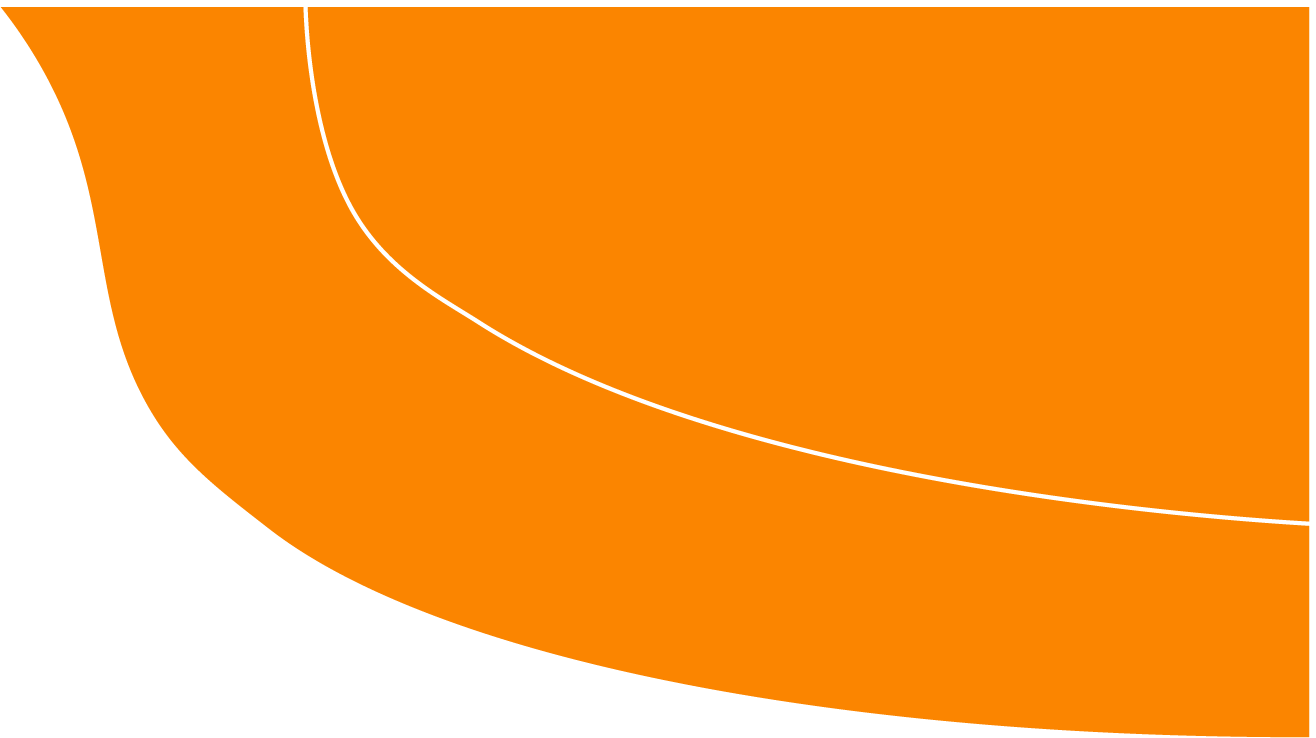
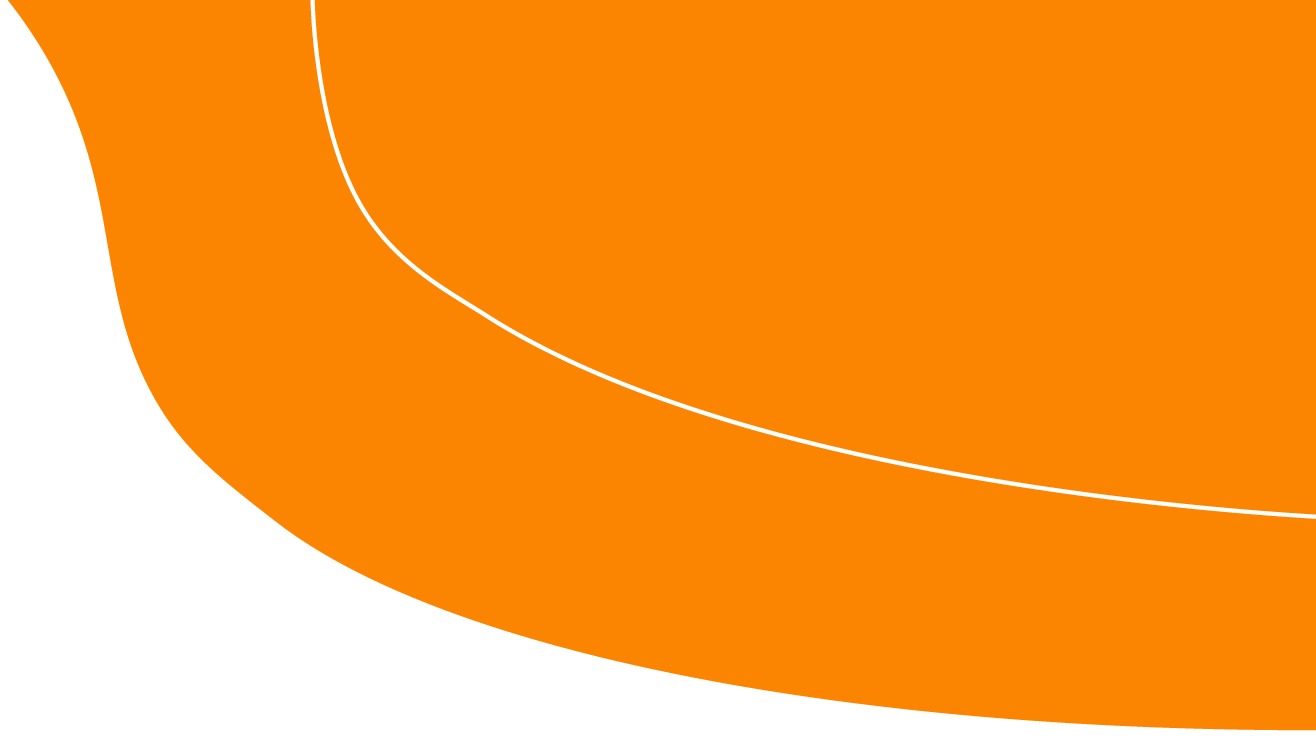
Face animations

diff --git a/src/components/Face.vue b/src/components/Face.vue
@@ -141,12 +141,11 @@
         <path class="cls-11" d="M333.44,402.27s40.04,27.37,73.18,23.15c33.15-4.21,85.23,25.57,86.81,37.41"/>
         <path class="cls-11" d="M174.07,387.41s-40.94,30.98-71.54,27.45S8.88,448.33,1.46,480.91"/>
         <path class="cls-8" d="M179.02,314.45c-3.56,14.83-7.67,39.28-3.99,68.84,2.93,23.51,10.28,82.61,55.52,105.23,4.1,2.05,36.75,17.81,63.82,3.69,39.21-20.45,39.61-89.44,39.78-119.7,.08-12.98-.88-23.74-1.76-31.14"/>
-        <path class="cls-13" d="M195.85,371.5c21.49,27.82,65.43,67.66,95.38,49.71,16.98-10.17,23.79-38.88,34.42-60.6-37.44,38.22-90.04,42.43-130.15,10.42,.12,.15,.24,.31,.36,.47Z"/>
+        <path id="neckShadow" :style="`transform: rotate(${-rotation/5}deg) translateX(${-translateXFace/5}px) translateY(${translateYFace/6}px)`" class="cls-13" d="M195.85,371.5c21.49,27.82,65.43,67.66,95.38,49.71,16.98-10.17,23.79-38.88,34.42-60.6-37.44,38.22-90.04,42.43-130.15,10.42,.12,.15,.24,.31,.36,.47Z"/>
         <path class="cls-6" d="M242.94,439.73s15.29,20.57,28.74,6.33"/>
       </g>
     </g>
-  <g id="Container">
-    
+  <g id="Container" :style="`transform: rotate(${rotation}deg) translateX(${translateXFace}px) translateY(${translateYFace}px)`">
     <g id="Face">
       <g>
         <path class="cls-8" d="M267.18,408.71c-77.67,6.21-112.9-105.58-113.07-108.14-.06-.87-.08-1.31-.08-1.31-1.05-18.99,4.22,27.96-18.46-37.98-22.68-65.93,15.82-32.18,15.3-25.32-.53,6.86,3.16-45.89,3.16-45.89,0,0,14.24-17.41,20.57-51.16,6.33-33.76,39.56-65.93,59.6-66.46,20.04-.53,72.79-6.33,103.38,40.09,13.21,20.04,11.92,29.14,11.92,29.14,.7,17.37,3.61,21.87,6.28,22.55,2.3,.59,9.49-.04,7.12,0,2.64-1.85,5.27-3.69,7.91-5.54,0,4.66,0,9.32,0,13.98v51.16c1.36-5.56,4.93-9.41,8.67-9.61,4.56-.25,7.81,4.97,8.73,6.45,1.57,2.52,4.39,8.38,.53,26.9-1.34,6.43-3.67,15.22-7.91,25.32-2.51,5.96-2.74,9.58-5.8,13.19-4.24,4.99-9.82,7.13-13.59,8.13-.35,6.15-.93,12.7-1.8,19.59-.85,6.72-1.91,13.05-3.07,18.96,0,0-2.41,9.04-8.7,19.78-4.62,7.88-33.57,52.41-80.7,56.18Z"/>
@@ -160,6 +159,18 @@
         <path class="cls-3" d="M377.07,235.32c1.57,3.5,2.89,7.23,3.45,11.04"/>
         <path class="cls-4" d="M361.46,293.2c3.12-24.6,6.25-49.2,9.37-73.8"/>
         <path class="cls-9" d="M282.09,284.98c1.08,4.82,.08,11.82-5.87,12.82-4.96,1-8.93,4-13.9,6-6.95-3-13.9-4-19.85-9-2.98-2-.99-8-.99-12,1.99-12,0-23,.99-34.85"/>
+      </g>
+    </g>
+    <!-- <path id="Mouth" class="cls-9" d="M226.36,336.31s33.13,23.47,73.4,0"/> -->
+    <path id="Mouth" class="cls-9" :d="`M226.36,${mouthY}s33.13,${mouthShape},73.4,0`"/>    
+    <g id="right_eyebrow" data-name="right eyebrow" :style="`transform: translateY(${translateYRightEyebrow}px)`">
+      <g>
+        <path class="cls-13" d="M355.72,189.91c-1-.68-1.99-1.33-2.93-2.09-.88-.71-1.55-1.52-2.25-2.4-.34-.42-.68-.84-1.02-1.26-.45-.55-.79-.56,0-.28-.7-.25-1.34-.63-1.88-1.09h-66.48s0,46.31,0,46.31h75.96s0-36.13,0-36.13c-.85-.82-1.42-1.89-1.4-3.06Z"/>
+        <path class="cls-1" d="M357.37,192.38s-5.27-21.1-21.63-22.15c-16.35-1.05-54.33,11.08-54.33,11.08l3.69,11.08s55.38-21.1,72.26,0Z"/>
+      </g>
+    </g>
+    <g id="hair">
+      <g>
         <path class="cls-1" d="M373.52,170.81c-3.37,1.39-6.74,2.78-10.1,4.17-8.65,.46-20.64-.4-29.46-8.12-20.7-18.13-1.04-54.08-22.15-72.79-10.88-9.65-28.65-11.17-45.1-12.66-8.52-.77-16.26-.6-22.95,0-5.79,1.38-12.68,3.74-19.78,7.91-22.56,13.24-31.25,35.28-34.02,43.52-1.07,7.3-3.12,16.31-7.12,26.11-6.94,16.99-16.7,28.9-23.74,36.13l-2.11,64.88s-22.76-29.54-23.51-52.22c-.75-22.68-31.87-43.25-31.87-43.25,0,0,2.64-27.96,5.8-29.01,3.16-1.05,11.08-11.08,12.13-26.37,1.05-15.3,38.51-14.24,48-53.27,9.49-39.03,70.15-24.26,68.57-14.24-1.58,10.02,26.9-48.53,81.23-32.18,54.33,16.35,35.34,64.88,58.55,70.15,23.21,5.27,32.18-15.82,32.18-15.82,0,0,22.68,10.55,25.85,24.26,2.49,10.8,5.64,37.65-9.9,51.13-8.1,7.03-17.01,7.42-17.01,7.42-4.43,.71-7.93,.37-8.22,1.53-.52,2.06,10.15,4.29,13.78,8.87,5.01,6.31,1.72,23.45-36.68,71.89l-2.37-58.02Z"/>
         <path class="cls-11" d="M369.45,165.81c-3.37,1.39-6.74,2.78-10.1,4.17-8.65,.46-20.64-.4-29.46-8.12-20.7-18.13-1.04-54.08-22.15-72.79-10.88-9.65-28.65-11.17-45.1-12.66-8.52-.77-16.26-.6-22.95,0-5.79,1.38-12.68,3.74-19.78,7.91-22.56,13.24-31.25,35.28-34.02,43.52-1.07,7.3-3.12,16.31-7.12,26.11-6.94,16.99-16.7,28.9-23.74,36.13l-2.11,64.88s-22.76-29.54-23.51-52.22c-.75-22.68-31.87-43.25-31.87-43.25,0,0,2.64-27.96,5.8-29.01,3.16-1.05,11.08-11.08,12.13-26.37,1.05-15.3,38.51-14.24,48-53.27,9.49-39.03,70.15-24.26,68.57-14.24-1.58,10.02,26.9-48.53,81.23-32.18,54.33,16.35,35.34,64.88,58.55,70.15,23.21,5.27,32.18-15.82,32.18-15.82,0,0,22.68,10.55,25.85,24.26,2.49,10.8,5.64,37.65-9.9,51.13-8.1,7.03-17.01,7.42-17.01,7.42-4.43,.71-7.93,.37-8.22,1.53-.52,2.06,10.15,4.29,13.78,8.87,5.01,6.31,1.72,23.45-36.68,71.89l-2.37-58.02Z"/>
         <path class="cls-7" d="M257.63,56.72s71.75-52.28,93.98,34.81,72.23,15.03,61.83,10.29"/>
@@ -172,14 +183,7 @@
         <path class="cls-7" d="M361.46,82.83s22.59,49.85,43.16,11.08"/>
       </g>
     </g>
-    <path id="Mouth" class="cls-9" d="M226.36,336.31s33.13,23.47,73.4,0"/>
-    <g id="right_eyebrow" data-name="right eyebrow">
-      <g>
-        <path class="cls-13" d="M355.72,189.91c-1-.68-1.99-1.33-2.93-2.09-.88-.71-1.55-1.52-2.25-2.4-.34-.42-.68-.84-1.02-1.26-.45-.55-.79-.56,0-.28-.7-.25-1.34-.63-1.88-1.09h-66.48s0,46.31,0,46.31h75.96s0-36.13,0-36.13c-.85-.82-1.42-1.89-1.4-3.06Z"/>
-        <path class="cls-1" d="M357.37,192.38s-5.27-21.1-21.63-22.15c-16.35-1.05-54.33,11.08-54.33,11.08l3.69,11.08s55.38-21.1,72.26,0Z"/>
-      </g>
-    </g>
-    <g id="left_eyebrow" data-name="left eyebrow">
+    <g id="left_eyebrow" data-name="left eyebrow" :style="`transform: translateY(${translateYLeftEyebrow}px)`">
       <g>
         <path class="cls-13" d="M173.81,182.82c-.43,1.12-.95,2.22-1.6,3.3-2.18,3.65-6.08,6.66-7.02,11.24-.3,1.47-.87,2.55-1.58,3.29v25.68s74.93,0,74.93,0v-43.52s-64.73,0-64.73,0Z"/>
         <path class="cls-1" d="M163.83,195.89s4.18-20.81,20.38-22.68c16.2-1.87,54.57,7.99,54.57,7.99l-3.11,10.98s-56.12-17.69-71.84,3.72Z"/>
@@ -194,19 +198,20 @@
       </g>
     </g>
 
-    <g id="Right_eye" data-name="Right eye">
-        <rect class="cls-2" x="307.43" y="226.34" width="13.42" height="2.76" rx="1.38" ry="1.38"/>
-        <circle class="cls-9" cx="314.14" cy="215.4" r="6.71"/>
+    <g id="Right_eye" data-name="Right eye" :style="`transform: translateX(${translateXEye}px) translateY(${translateYEye}px)`">
+        <rect class="cls-2" x="310.43" y="223.34" width="13.42" height="2.76" rx="1.38" ry="1.38"/>
+        <circle class="cls-9" cx="317.14" cy="212.4" r="6.71"/>
     </g>        
-    <g id="Left_eye" data-name="Left eye">
-      <rect class="cls-2" x="200.67" y="226.34" width="13.42" height="2.76" rx="1.38" ry="1.38"/>
-      <circle class="cls-9" cx="207.38" cy="215.35" r="6.71"/>
+    <g id="Left_eye" data-name="Left eye" :style="`transform: translateX(${translateXEye}px) translateY(${translateYEye}px)`">
+      <rect class="cls-2" x="197.67" y="222.34" width="13.42" height="2.76" rx="1.38" ry="1.38"/>
+      <circle class="cls-9" cx="204.38" cy="211.35" r="6.71"/>
     </g>
   </g>
 </svg>
 <p id="binary">
     01000011 01101000 01101111 01110000 01110000 01100001 01110011 00100000 01101111 01110101 01110100 00101100 00100000 01101101 01100001 01101110 01111001 00100000 01101101 01100101 01101110 00101100 00100000 01100010 01101100 01100001 01110100 01110100 00101100 00100000 01100010 01101100 01100001 01110100 01110100 00001010 01000010 01100001 01100010 01111001 00100000 01100111 01101001 01110010 01101100 00100000 01001001 00100000 01101110 01100101 01100101 01100100 00100000 01110100 01101000 01100001 01110100 00100000 01100110 01100001 01101110 00100000 00100111 01100011 01100001 01110101 01110011 01100101 00100000 01001001 00100111 01101101 00100000 01101000 01101111 01110100 00100000 01101110 01101111 01110111 00100000 00101000 01101000 01101111 01110100 00100000 01101110 01101111 01110111 00101001 00001010 01000010 01110010 01101111 01101011 01100101 00100000 01100001 01110011 01110011 00100000 01101110 01101001 01100111 01100111 01100001 01110011 00100000 01110111 01101001 01110100 01101000 00100000 01110100 01101000 01100001 01110100 00100000 01110000 01101100 01100001 01101110 00101100 00100000 01110100 01101000 01100101 01111001 00100000 01100111 01100101 01110100 00100000 01110011 01101000 01101111 01110100 00100000 01100100 01101111 01110111 01101110 00100000 00101000 01100010 01101111 01101111 01101101 00100000 01100010 01101111 01101111 01101101 00101001
     01000011 01101000 01101111 01110000 01110000 01100001 01110011 00100000 01101111 01110101 01110100 00101100 00100000 01101101 01100001 01101110 01111001 00100000 01101101 01100101 01101110 00101100 00100000 01100010 01101100 01100001 01110100 01110100 00101100 00100000 01100010 01101100 01100001 01110100 01110100 00001010 01000010 01100001 01100010 01111001 00100000 01100111 01101001 01110010 01101100 00100000 01001001 00100000 01101110 01100101 01100101 01100100 00100000 01110100 01101000 01100001 01110100 00100000 01100110 01100001 01101110 00100000 00100111 01100011 01100001 01110101 01110011 01100101 00100000 01001001 00100111 01101101 00100000 01101000 01101111 01110100 00100000 01101110 01101111 01110111 00100000 00101000 01101000 01101111 01110100 00100000 01101110 01101111 01110111 00101001 00001010 01000010 01110010 01101111 01101011 01100101 00100000 01100001 01110011 01110011 00100000 01101110 01101001 01100111 01100111 01100001 01110011 00100000 01110111 01101001 01110100 01101000 00100000 01110100 01101000 01100001 01110100 00100000 01110000 01101100 01100001 01101110 00101100 00100000 01110100 01101000 01100101 01111001 00100000 01100111 01100101 01110100 00100000 01110011 01101000 01101111 01110100 00100000 01100100 01101111 01110111 01101110 00100000 00101000 01100010 01101111 01101111 01101101 00100000 01100010 01101111 01101111 01101101 00101001
+    01000011 01101000 01101111 01110000 01110000 01100001 01110011 00100000 01101111 01110101 01110100 00101100 00100000 01101101 01100001 01101110 01111001 00100000 
 </p>
 </template>
 <script>
@@ -218,13 +223,55 @@ export default {
         x: 0,
         y: 0,
         viewportHeight: 1,
-        viewportWidth: 1
+        viewportWidth: 1,
+        rotation:0,
+        translateXFace:0,
+        translateYFace:0,
+        translateYRightEyebrow:-2,
+        translateYLeftEyebrow:-2,
+        translateYEye:0,
+        translateXEye:0,
+        mouthY:336.31,
+        mouthShape:18.47
       }
     },
     methods: {
       onMouseMove (ev) {
         this.x = ev.clientX
         this.y = ev.clientY
+        let xPercentage = (window.innerWidth/2-this.x)/window.innerWidth*2
+        let yPercentage = (window.innerHeight/2-this.y)/window.innerHeight*2
+        let maxRotate = 5
+        let maxTranslateY = -30
+        let maxTranslateX = 29
+        this.rotation = ((maxRotate*xPercentage)*yPercentage)
+        this.translateYFace=maxTranslateY*yPercentage*xPercentage+(yPercentage*3)
+        this.translateXFace=maxTranslateX*yPercentage*xPercentage
+        if(xPercentage<0){
+          let tempXPercentage = 0.7*-xPercentage
+          if(tempXPercentage<0){
+            tempXPercentage=0
+          }
+          this.translateYRightEyebrow = -2-12*tempXPercentage
+          this.translateYLeftEyebrow = -2+5*tempXPercentage
+        }else{
+          if(xPercentage>0.7){
+            this.translateYRightEyebrow = -2+5*(xPercentage-0.7)
+            this.translateYLeftEyebrow = -2-9*(xPercentage-0.7)
+          }
+        }
+        
+        this.translateXEye= -xPercentage*6//was 4
+        this.translateYEye= -yPercentage*6
+        let extraMouthY=0
+        let lessenMouthShape=0
+        if(yPercentage<(-0.3)){
+          extraMouthY= 7*Math.abs(yPercentage+0.3)
+          lessenMouthShape = 10*Math.abs(yPercentage+0.3)
+        }
+        this.mouthY=336.31+extraMouthY
+        this.mouthShape=18.47-lessenMouthShape
+
       },
 
       updateViewportSize () {
@@ -244,13 +291,15 @@ export default {
 <style lang="scss">
     svg{
         height: 600px;
+        overflow: visible;
     }
-    /* #Container{
-        transform: rotate(5deg) translateX(40px) translateY(-15px);
+    #Container{
+        transform: rotate(-5deg) translateX(-29px) translateY(25px);
+        height: 20px !important;
     }
     #Right_eye{
         transform: translateX(0);
-    } */
+    }
       .cls-1, .cls-2 {
         fill: #1d53ff;
       }
@@ -304,11 +353,12 @@ export default {
         fill: #a5b4ff;
       }
       #binary{
+        font-size: 0.8em;
         position: absolute;
-        height: 46%;
+        height: 38%;
         width: 170%;
         margin-left: -56%;
-        top:27%;
+        top:31%;
         overflow: hidden;
         color: $grey;
         opacity: 30%;

diff --git a/src/views/HomeView.vue b/src/views/HomeView.vue
@@ -27,7 +27,8 @@ export default{
   
   #home-container{
     width:86%;
-    margin: 3em auto;
+    padding: 3em 0;
+    margin: 1em auto;
     display: flex;
     vertical-align: center;
     justify-content: center;

diff --git a/src/App.vue b/src/App.vue
@@ -16,7 +16,7 @@ import HomeView from "./views/HomeView.vue";
   #right-corner{
     position: absolute;
     z-index: -1;
-    right: -0.2rem;
+    right:0;
     width:15rem;
     margin-top:-0.2rem;
   }
